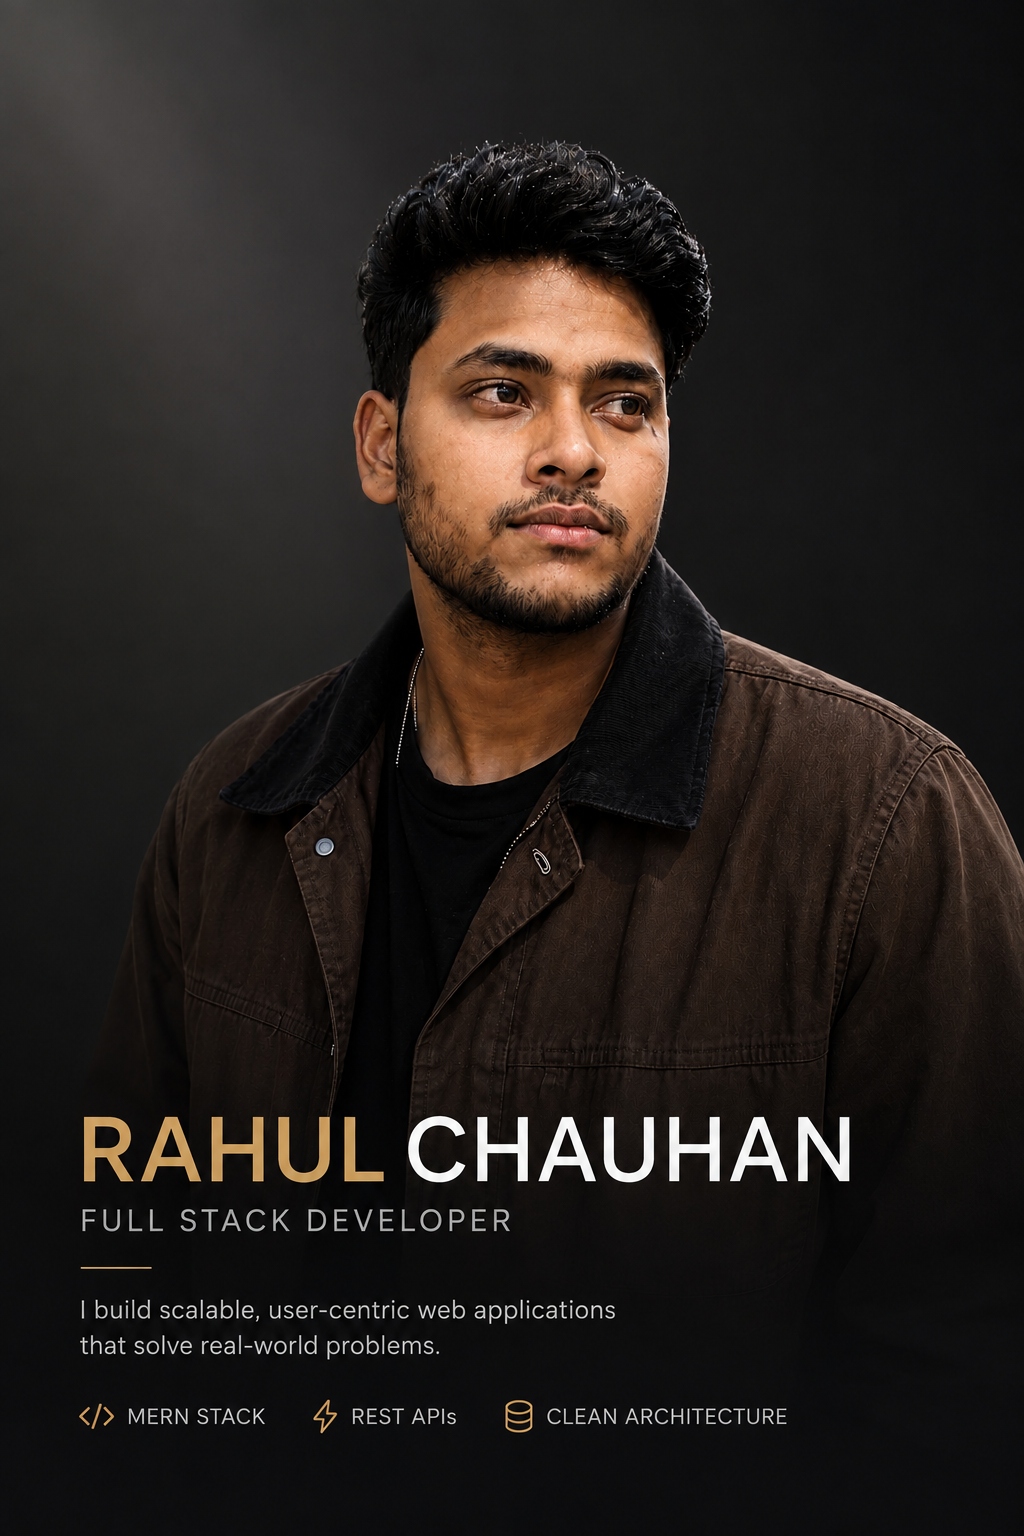
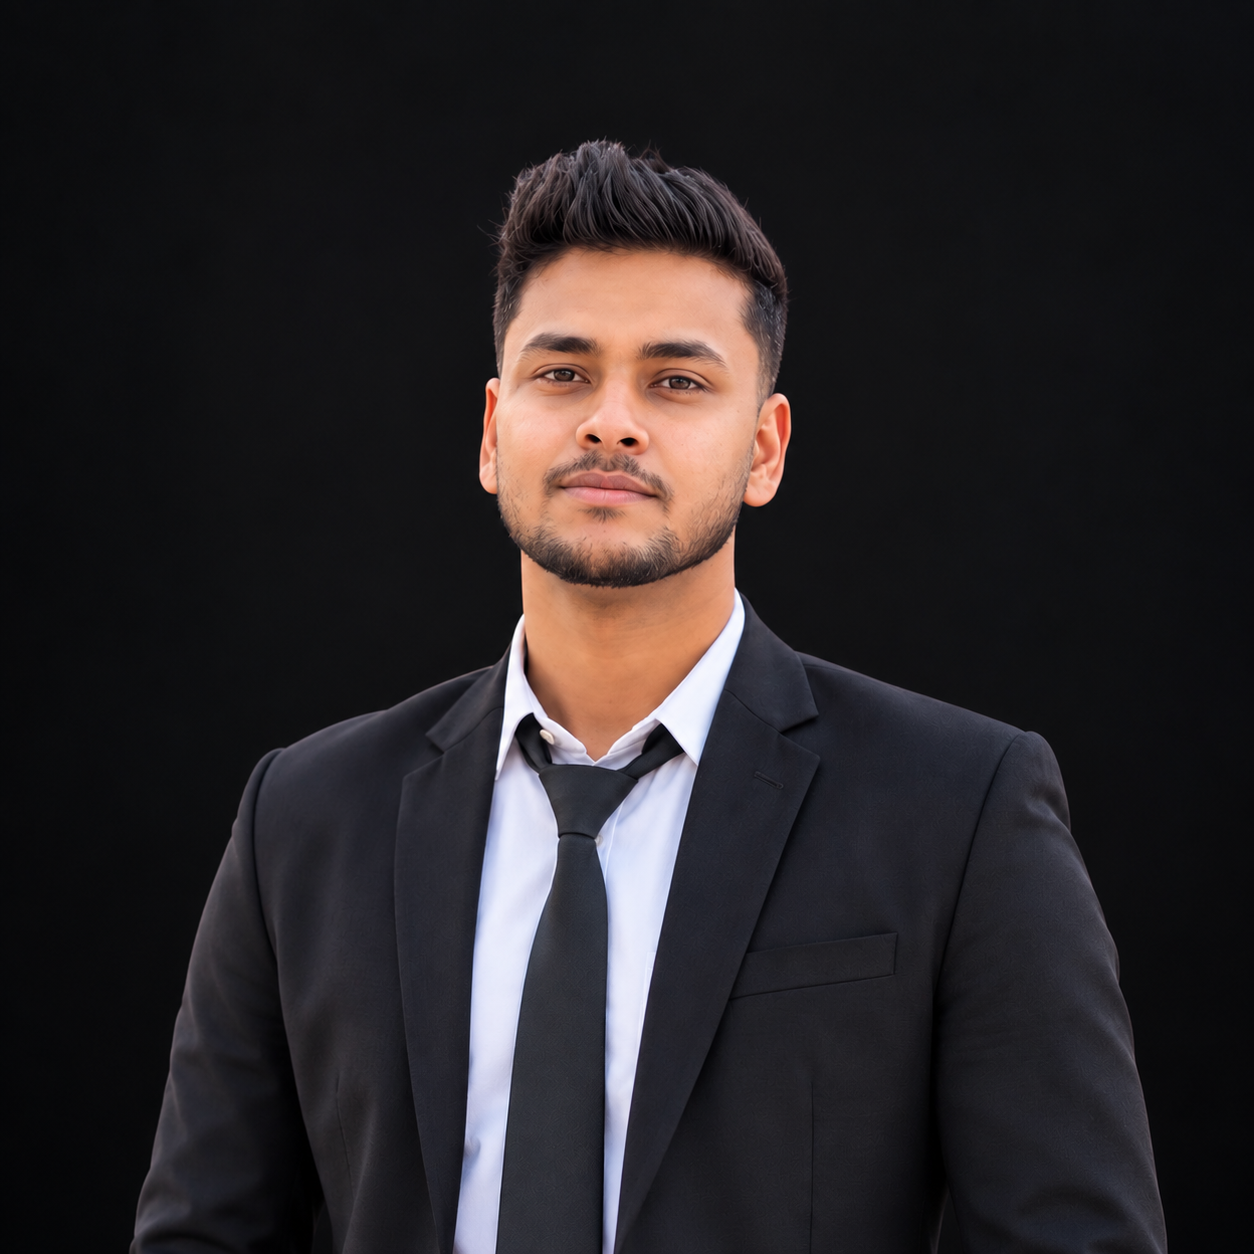
Update portfolio project details and profile image

diff --git a/src/Components/Projects/Projects.jsx b/src/Components/Projects/Projects.jsx
@@ -21,7 +21,7 @@ const projects = [
   {
     title: "CampusCart",
     subtitle: "Peer-to-Peer Student E-Commerce Marketplace",
-    url: "https://campus-cart-interface.vercel.app/",
+    url: "https://campus-cart-ui.vercel.app",
     description:
       "Full-stack peer-to-peer campus marketplace platform connecting students for buying and selling textbooks, electronics, and essentials with verified student accounts and dynamic search.",
     tags: ["React", "Node.js", "Express", "MongoDB", "Tailwind CSS"],
